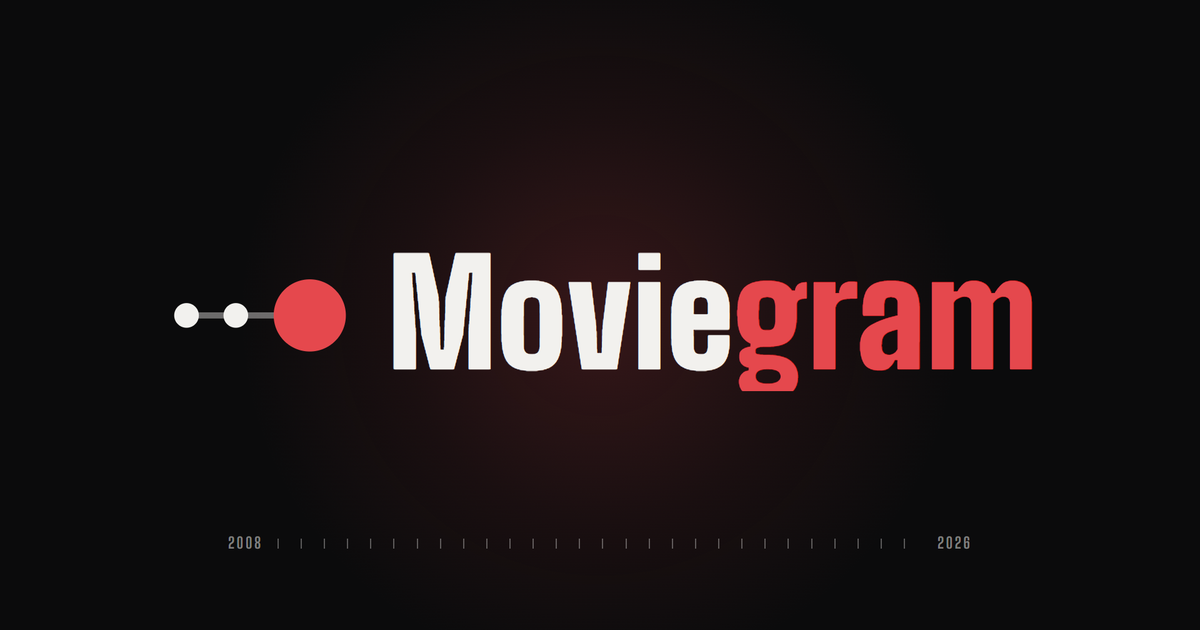
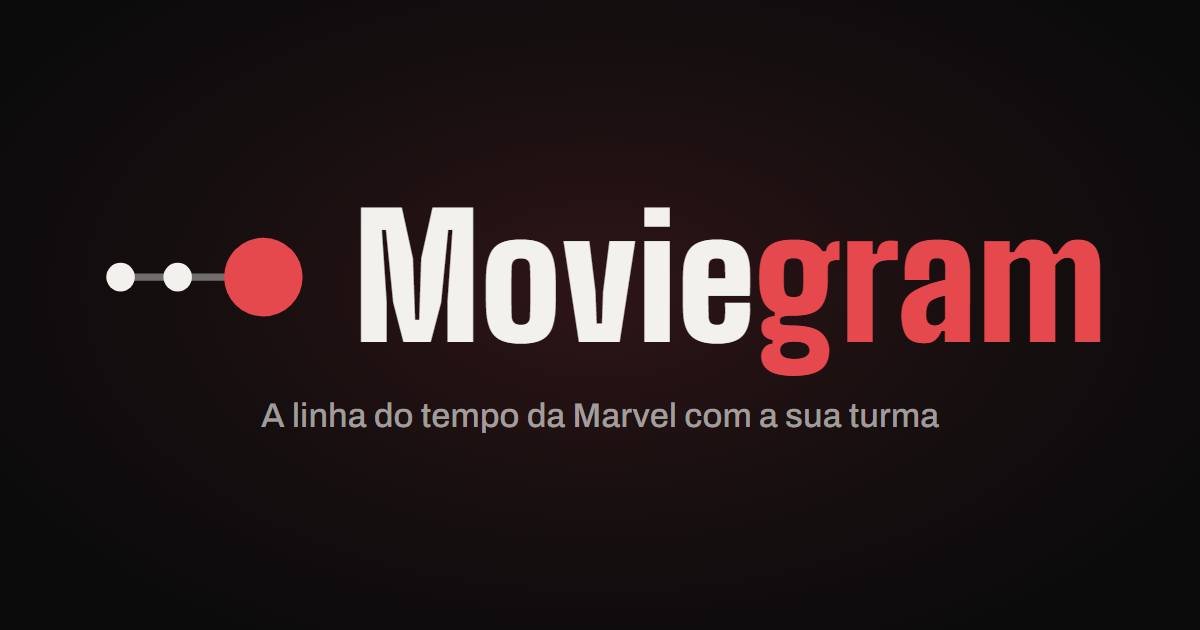
Imagem de compartilhamento com fundo limpo, gerada a partir de scripts/og.html

Changed region(s): [[0.0617, 0.3317, 0.925, 0.6937], [0.7708, 0.8444, 0.8017, 0.8746], [0.185, 0.8444, 0.2158, 0.8746]]

diff --git a/scripts/og.html b/scripts/og.html
@@ -1,0 +1,34 @@
+<!doctype html>
+<!-- Fonte da imagem de compartilhamento (public/og.png), 1200x630.
+     Gerar: msedge --headless=new --window-size=1200,630 --virtual-time-budget=8000
+            --screenshot=public/og.png scripts/og.html -->
+<html lang="pt-BR">
+<head>
+<meta charset="utf-8">
+<link href="https://fonts.googleapis.com/css2?family=Archivo:wdth,wght@62..125,300..800&display=block" rel="stylesheet">
+<link href="https://fonts.googleapis.com/css2?family=Big+Shoulders+Display:wght@900&display=block" rel="stylesheet">
+<style>
+  html,body{margin:0}
+  body{
+    width:1200px;height:630px;overflow:hidden;
+    display:flex;flex-direction:column;align-items:center;justify-content:center;gap:34px;
+    background:
+      radial-gradient(ellipse 720px 420px at 50% 46%, rgba(229,72,77,.16), rgba(229,72,77,.05) 55%, transparent 100%),
+      #0B0B0C;
+    color:#F2F1EE;
+  }
+  .brand{display:flex;align-items:center;gap:.2em;font-size:168px}
+  .mark{flex:none;width:1.36em;height:.68em;color:#F2F1EE}
+  .wordmark{font:900 1em/1 "Big Shoulders Display","Arial Narrow",Impact,sans-serif;letter-spacing:.005em}
+  .wordmark span{color:#E5484D}
+  p{margin:0;font:500 34px/1.2 "Archivo",system-ui,sans-serif;color:rgba(242,241,238,.64);letter-spacing:.005em}
+</style>
+</head>
+<body>
+  <div class="brand">
+    <svg class="mark" viewBox="0 0 64 32" aria-hidden="true"><line x1="8" y1="16" x2="48" y2="16" stroke="currentColor" stroke-width="2" stroke-linecap="round" opacity=".42"/><circle cx="8" cy="16" r="4" fill="currentColor"/><circle cx="24" cy="16" r="4" fill="currentColor"/><circle cx="48" cy="16" r="11" fill="#E5484D"/></svg>
+    <span class="wordmark">Movie<span>gram</span></span>
+  </div>
+  <p>A linha do tempo da Marvel com a sua turma</p>
+</body>
+</html>
